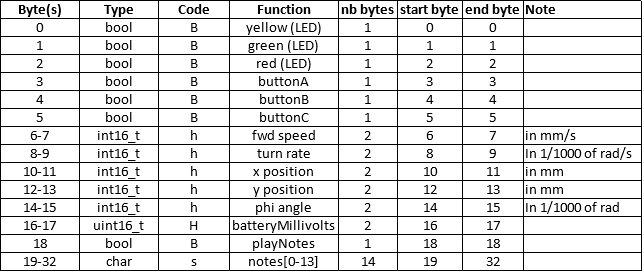
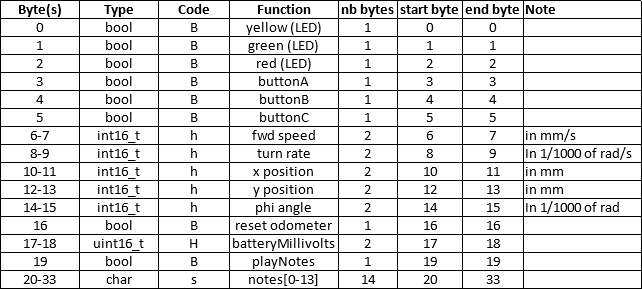
Added Odometer reset method

Changed region(s): [[0.0, 0.0, 1.0, 1.0]]

diff --git a/src/Odometer.cpp b/src/Odometer.cpp
@@ -1,6 +1,6 @@
 /*
 Odometer.cpp
-Source: https://github.com/DrGFreeman/RasPiBot202.V2
+Source: https://github.com/DrGFreeman/RasPiBot202V2
 
 MIT License
 
@@ -40,18 +40,9 @@ Odometer::Odometer(float tickDist, float track)
   _track = track;
 
   // Initialize variables
-  _x = 0;
-  _y = 0;
-  _phi = 0;
-
-  _speedLeft = 0;
-  _speedRight = 0;
-  _omega = 0;
-
   _lastCountLeft = 0;
   _lastCountRight = 0;
-
-  _lastUpdateTime = micros();
+  reset();
 }
 
 // Return the angular velocity in rad/s
@@ -102,6 +93,20 @@ float Odometer::getY()
   return _y;
 }
 
+// Reset the Odometer
+void Odometer::reset()
+{
+  _x = 0;
+  _y = 0;
+  _phi = 0;
+
+  _speedLeft = 0;
+  _speedRight = 0;
+  _omega = 0;
+
+  _lastUpdateTime = micros();
+}
+
 // Update position and speed with new encoder counts
 void Odometer::update(int countLeft, int countRight)
 {
@@ -132,7 +137,7 @@ void Odometer::update(int countLeft, int countRight)
   _phi += deltaPhi;
 
   // Keep _phi within 0 & 2 * Pi
-  if (_phi > 2 * M_PI)
+  if (_phi >= 2 * M_PI)
   {
     _phi -= 2 * M_PI;
   }

diff --git a/src/Odometer.h b/src/Odometer.h
@@ -1,6 +1,6 @@
 /*
 Odometer.h
-Source: https://github.com/DrGFreeman/RasPiBot202.V2
+Source: https://github.com/DrGFreeman/RasPiBot202V2
 
 MIT License
 
@@ -66,6 +66,9 @@ public:
 
   // Return the Y position
   float getY();
+
+  // Reset the odometer
+  void reset();
 
   // Update odometer status
   void update(int countLeft, int countRight);
